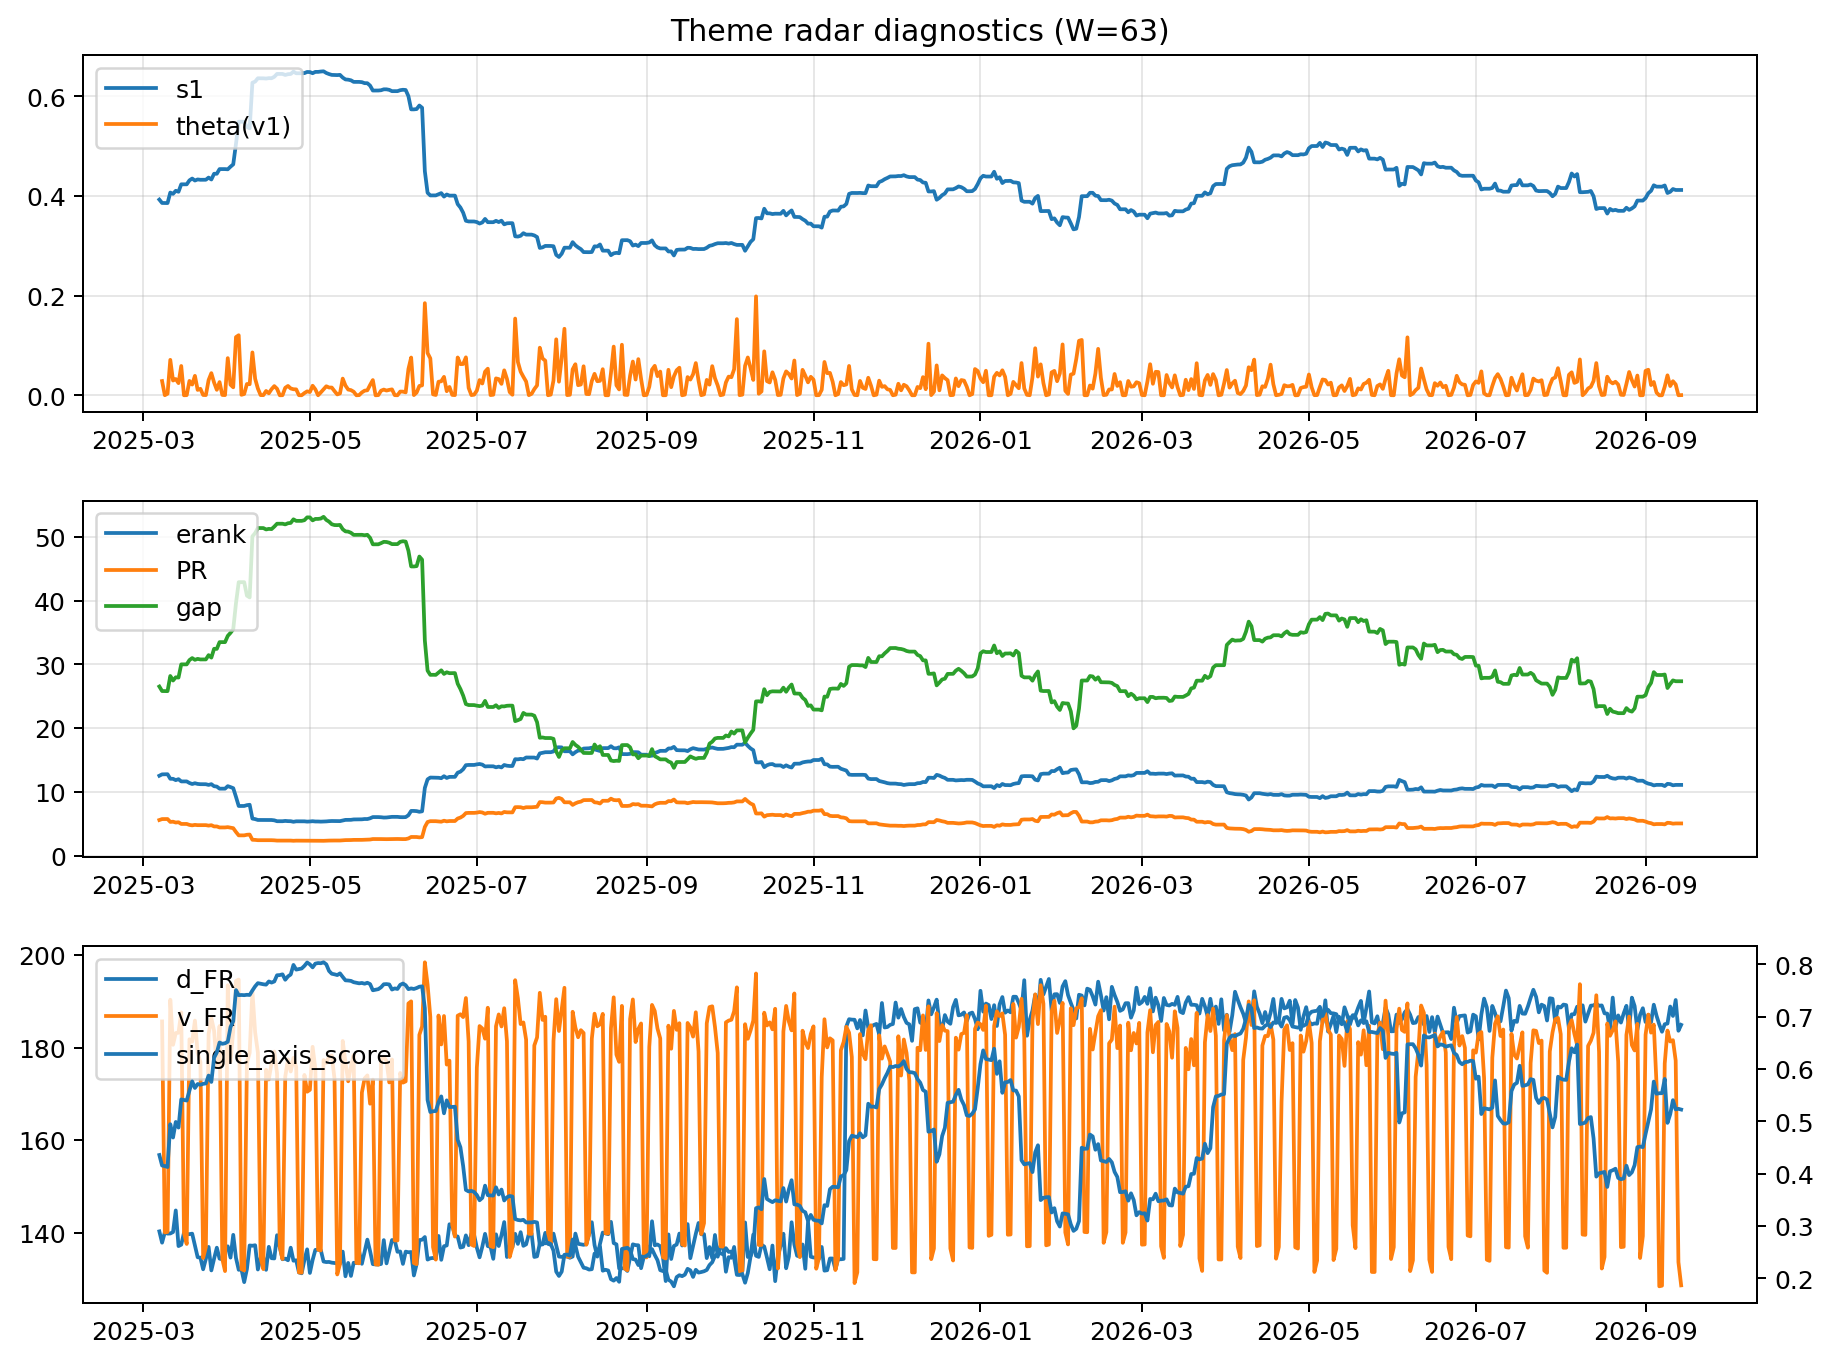
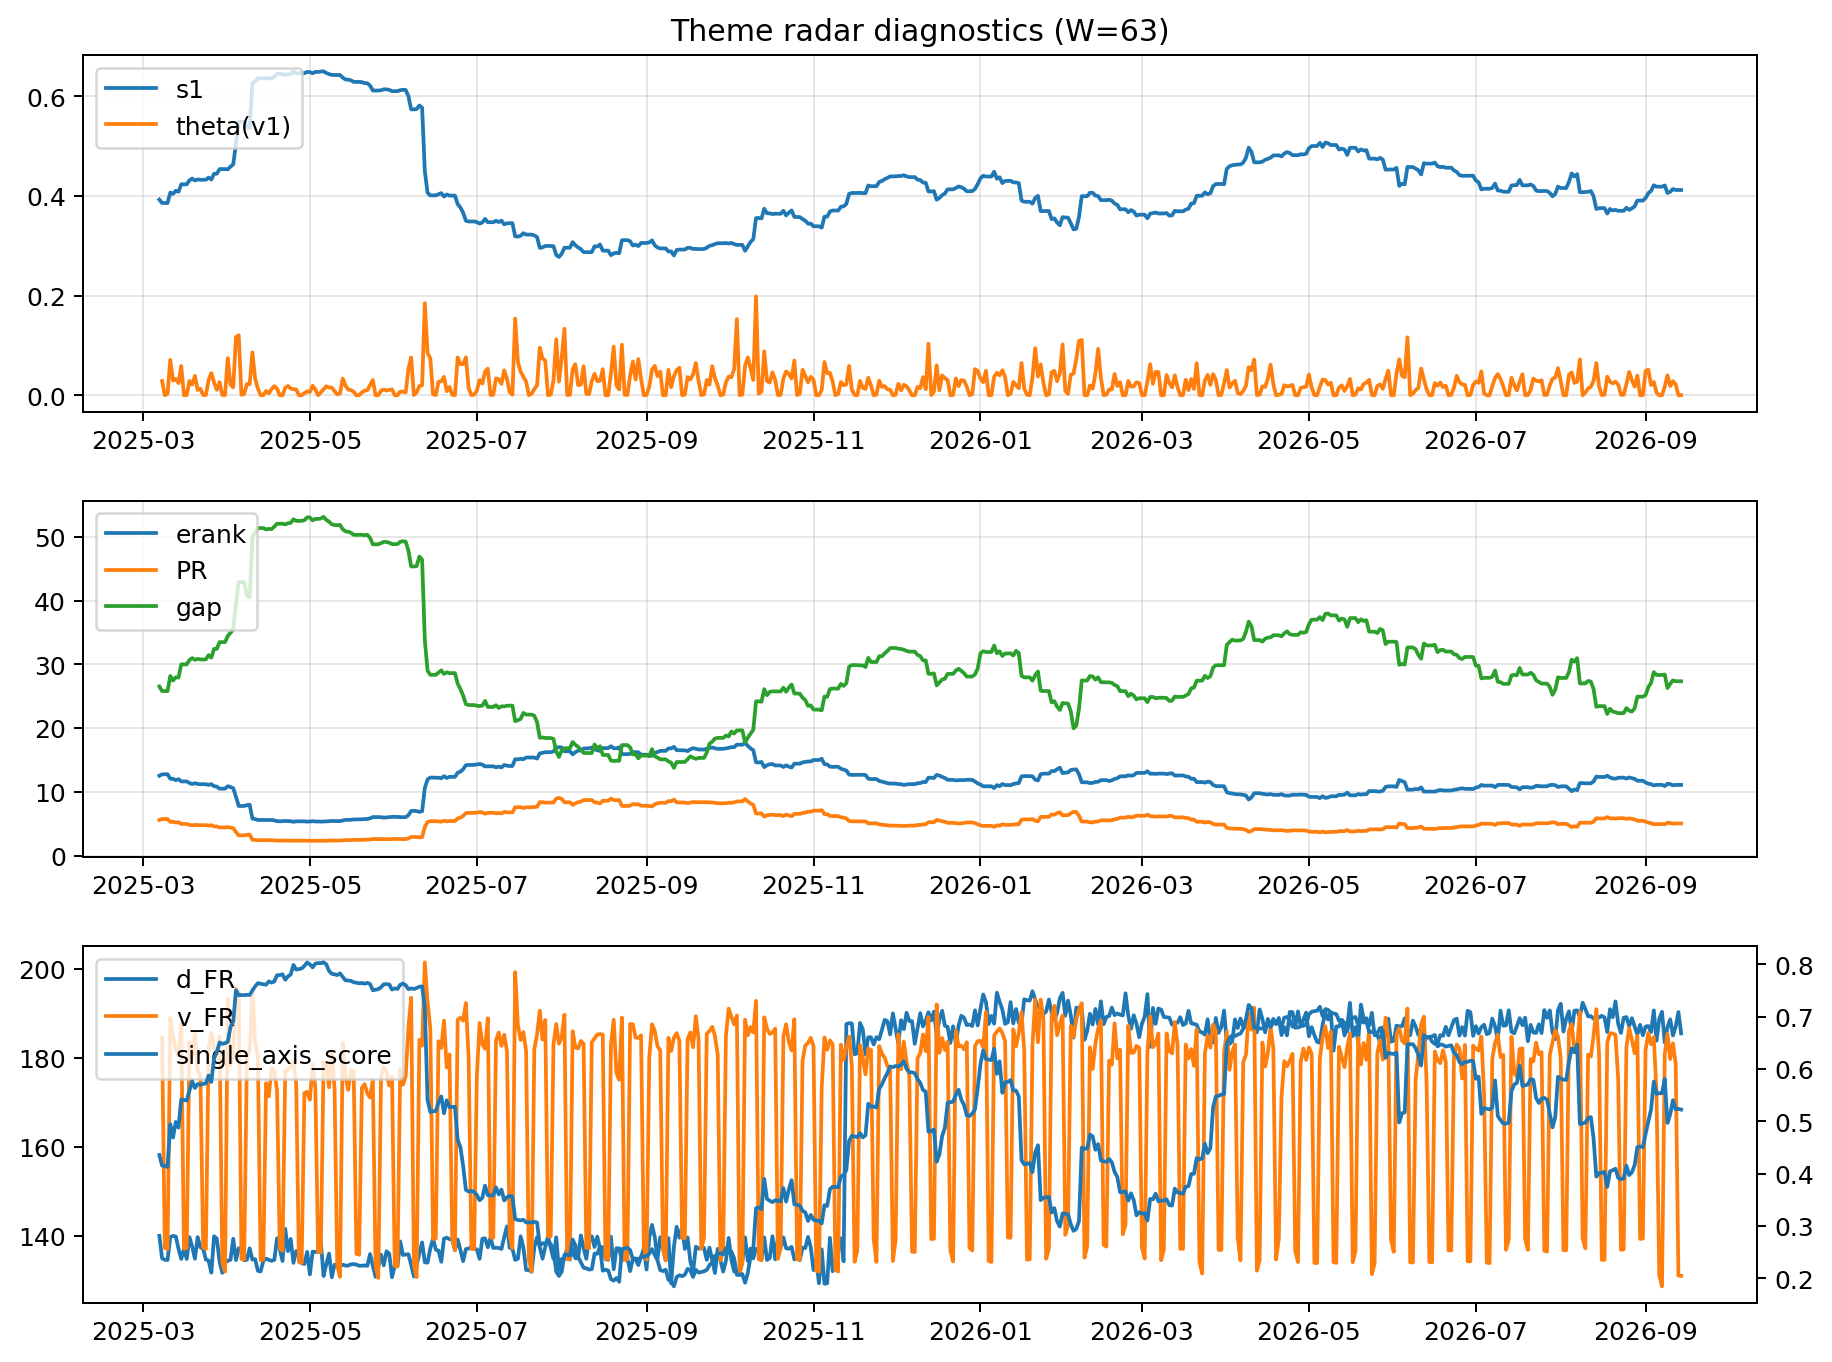
log: 2026-09-14 | sha256:fd3245d0e40609721002070f84da040fbd18f773450a79b6c8ea3f1e7a235374

diff --git a/logs/2026-09-14.md b/logs/2026-09-14.md
@@ -3,43 +3,43 @@
 ![diagnostic W63](../assets/diagnostic/2026-09-14_W63.png)
 
 ## Leaders (v1) — W=63
-- **Nuclear_Uranium** (0.0844355780787306)
-- Semis (0.0691262867588949)
-- Quantum (0.0629628501632479)
+- **Nuclear_Uranium** (0.0844355715734213)
+- Semis (0.0691262823978761)
+- Quantum (0.0629628423399511)
 
 ## Challengers — W=63
-**v2:** Rates (0.0935656173648891), Semis (0.0760268148110219), Genomics_Bio (0.0607431444916335)
-**v3:** Crypto (0.0792876485808265), Genomics_Bio (0.0768575495705235), Metals (0.0766551065444205)
+**v2:** Rates (0.093565832402406), Semis (0.0760267405677865), Genomics_Bio (0.0607431699211049)
+**v3:** Crypto (0.0792875423717644), Genomics_Bio (0.0768574022522179), Metals (0.0766550337767993)
 
 ## Migration (20D slope) — W=63
 **Top risers:**
-- axis_DataCenter_Infra: 0.0005779201493398
-- axis_Genomics_Bio: 0.0004389716453338
-- axis_Crypto: 0.0004309915379808
-- axis_Rates: 0.0003265162450767
-- axis_Space: 0.0002724305582974
-- axis_Metals: 0.0002336249806928
-- axis_MegaCap_AI: 0.0001843693573702
-- axis_Software_Cloud: 0.0001709194534208
-- axis_Drones_Autonomy: 0.0001671911135402
-- axis_Sector_Fin: 0.0001097554235953
+- axis_DataCenter_Infra: 0.0005779197062054
+- axis_Genomics_Bio: 0.0004389707603812
+- axis_Crypto: 0.0004309903599936
+- axis_Rates: 0.0003265239162105
+- axis_Space: 0.0002724297006606
+- axis_Metals: 0.000233623991026
+- axis_MegaCap_AI: 0.0001843688836053
+- axis_Software_Cloud: 0.0001709191587458
+- axis_Drones_Autonomy: 0.000167190604473
+- axis_Sector_Fin: 0.0001097553274903
 
 **Top fallers:**
-- axis_Equity_US: -0.0001258616491752
-- axis_Sector_ConsStap: -0.0001293077927703
-- axis_Sector_Health: -0.0001339012164542
-- axis_Critical_Minerals: -0.0001876361070039
-- axis_Quantum: -0.0001940027693007
-- axis_Sector_Utilities: -0.0002007500553776
-- axis_Grid_Power: -0.0002323224657014
-- axis_Semis: -0.0002983214586874
-- axis_Sector_RealEstate: -0.0003007558488272
-- axis_Nuclear_Uranium: -0.0004676992422981
+- axis_Equity_US: -0.000125861732366
+- axis_Sector_ConsStap: -0.0001293077272879
+- axis_Sector_Health: -0.0001339011198594
+- axis_Critical_Minerals: -0.0001876364418113
+- axis_Quantum: -0.000194003504581
+- axis_Sector_Utilities: -0.0002007501166226
+- axis_Grid_Power: -0.000232322323439
+- axis_Semis: -0.000298320997554
+- axis_Sector_RealEstate: -0.0003007556874054
+- axis_Nuclear_Uranium: -0.0004677004705187
 
 ## Risk line (W=63)
-- s1: 0.4118519701750997
-- theta_v1: 0.0003711843753412
-- v_FR: 128.60224447763974
+- s1: 0.41185206201297
+- theta_v1: 0.0003711844414429
+- v_FR: 131.0349710815804
 - single_axis_score: 0.5224416517055654
 
 ## Interpretation
@@ -51,4 +51,4 @@
 - Percentiles (W=63 history): vfr_pct=0.01, theta_pct=0.14, s1_pct=0.52, score_pct=0.51.
 
 ---
[2 lines of base64/hex data omitted]
